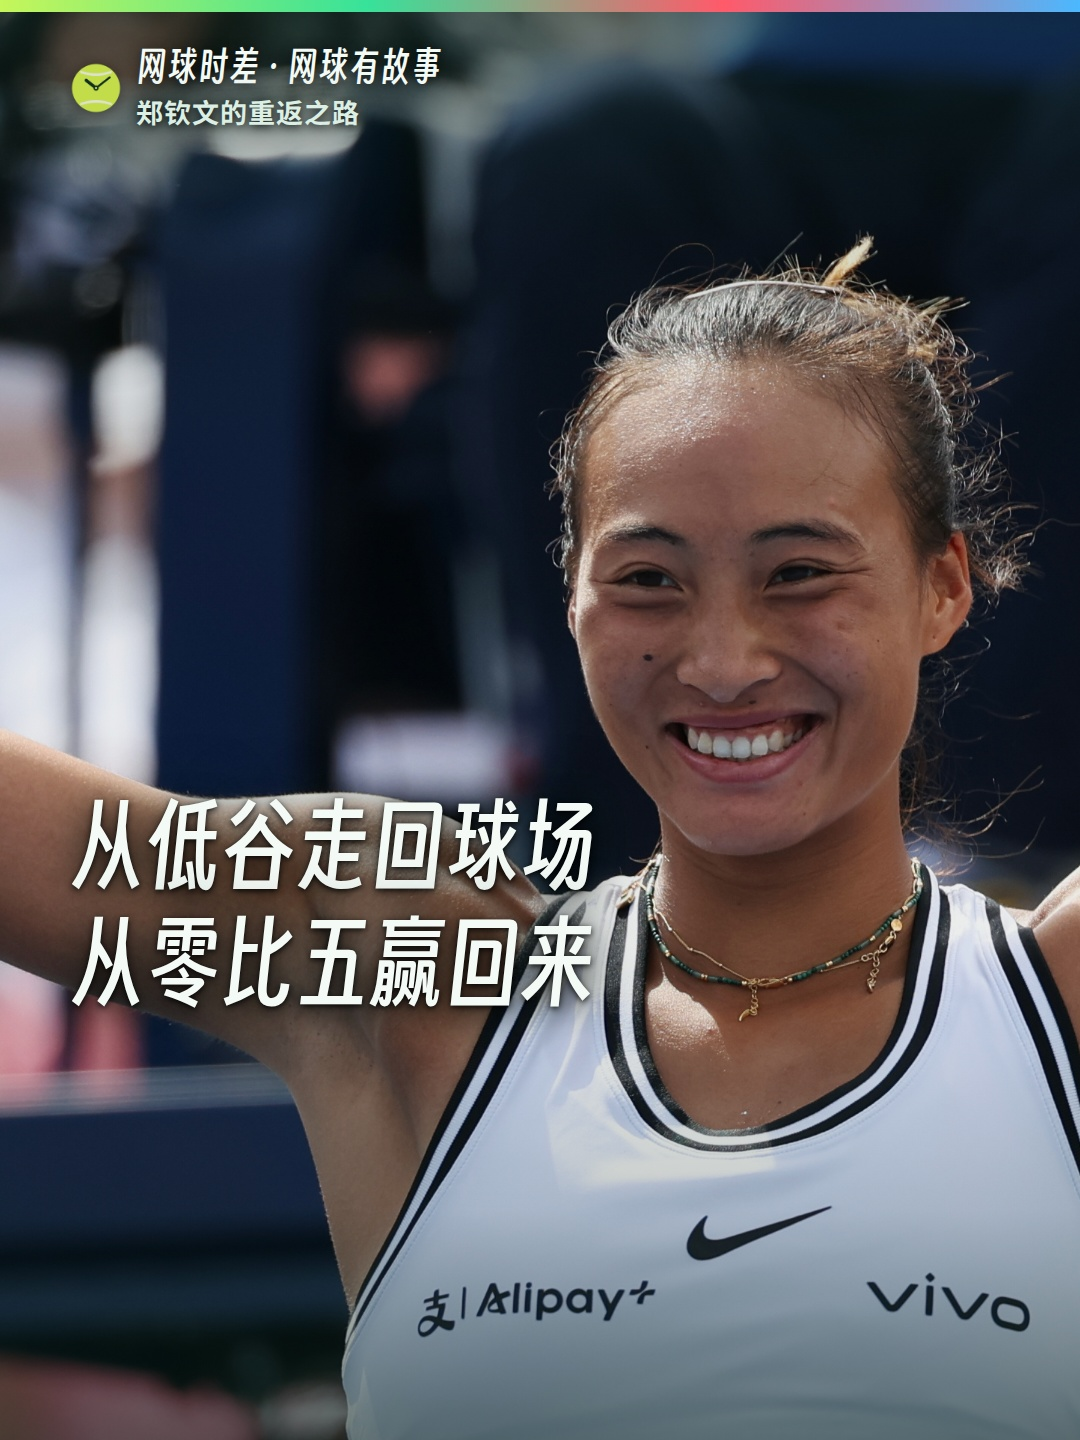
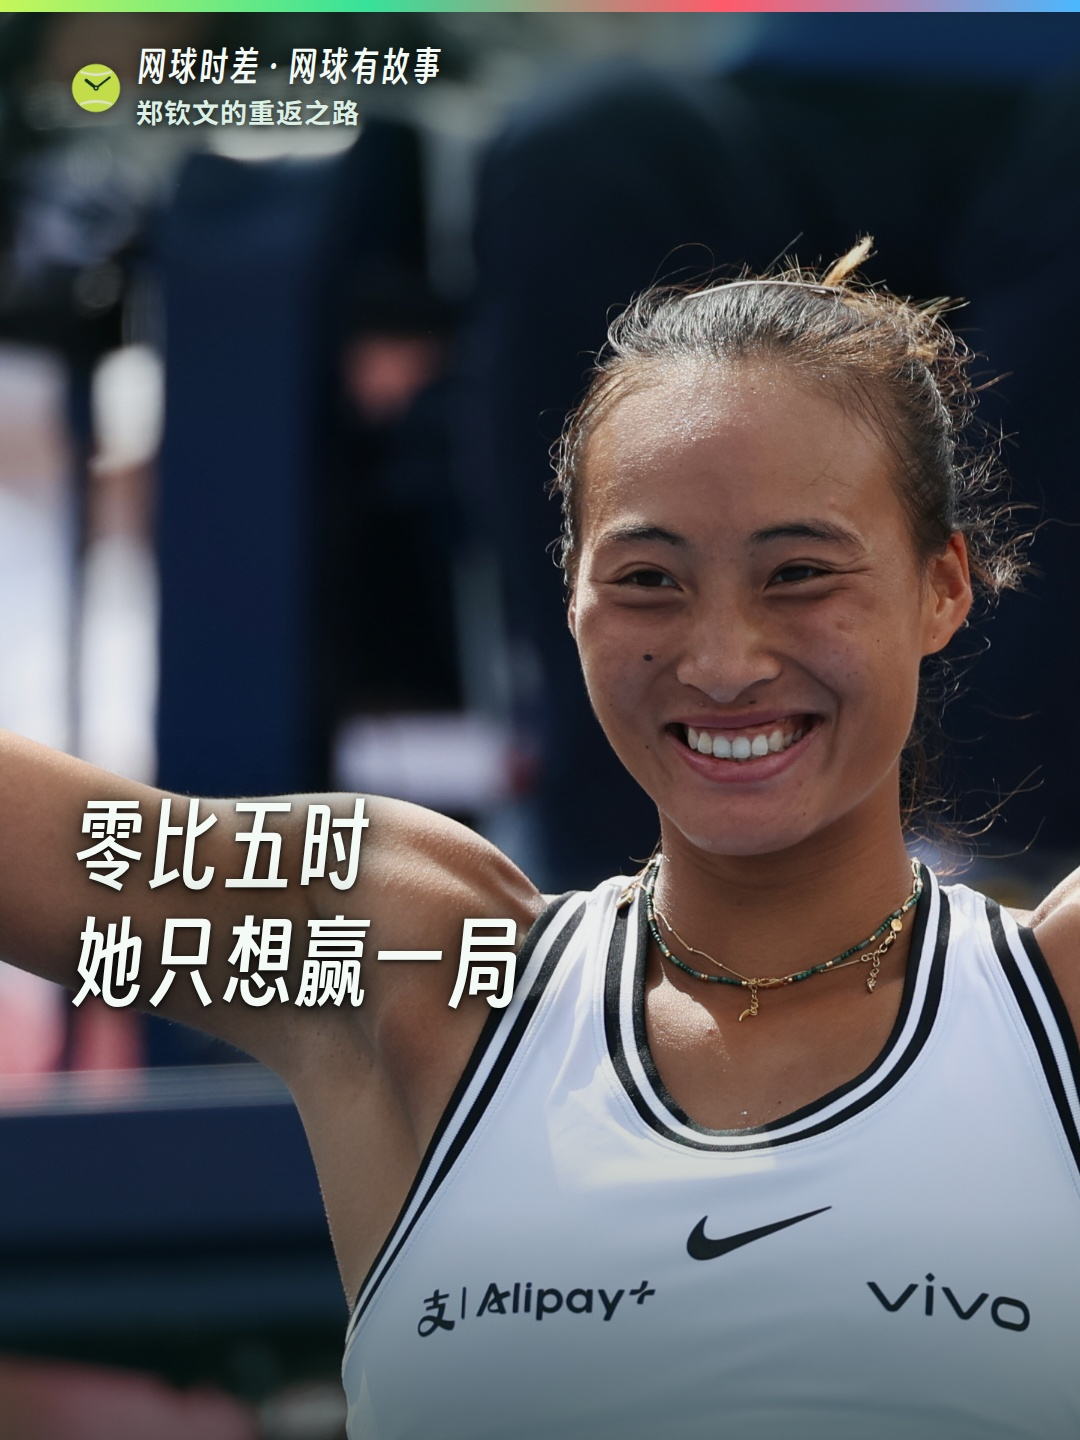
reel: render zheng-from-low-to-us-open-comeback

Changed region(s): [[0.0611, 0.5312, 0.5806, 0.7188]]

diff --git a/output/2026-09-06/reel/zheng-from-low-to-us-open-comeback/copy.html b/output/2026-09-06/reel/zheng-from-low-to-us-open-comeback/copy.html
@@ -42,19 +42,21 @@
     <p class="sub">标题和正文已分开，可直接粘贴到发布页。</p>
     <section>
       <div class="label"><span>标题</span><button type="button" data-copy="title">复制标题</button></div>
-      <textarea id="title" readonly>9.6 网球有故事 | 从低谷走回球场</textarea>
+      <textarea id="title" readonly>9.6 网球有故事 | 郑钦文：先赢下一局</textarea>
     </section>
     <section>
       <div class="label"><span>正文</span><button type="button" data-copy="body">复制正文</button></div>
-      <textarea id="body" readonly>郑钦文：从低谷走回球场
+      <textarea id="body" readonly>郑钦文：零比五时，她只想赢一局
 
-郑钦文说，打进正赛之后，她哭了。
-因为她拼得那么狠，只为了重新站在其他人的起点。
+从奥运冠军，到病床边握拍、在走廊练习；从中网复出又退赛，到再度缺席澳网。回到球场，还要重新找回比赛的感觉。
 
-从手术、复出再停，到在纽约连闯资格赛；从先赢一局，到决胜盘连赢七局。
-这场逆转的重量，藏在比分之前的那段路里。
+这届美网，她先打了三场资格赛。拼尽全力，才回到别人开始的地方。
 
-#郑钦文 #美网 #网球有故事 #网球时差</textarea>
+第三轮面对凯斯，决胜盘零比五落后。先保住一局，在一比五时挽救赛点，再连赢七局。
+
+这次把她重返球场的来路，与逆转的关键分一起讲完整。她赢回来的，难道只是一场比赛？
+
+#郑钦文 #美网 #网球 #网球有故事</textarea>
     </section>
     <section>
       <div class="label"><span>置顶评论</span><button type="button" data-copy="comment">复制评论</button></div>
